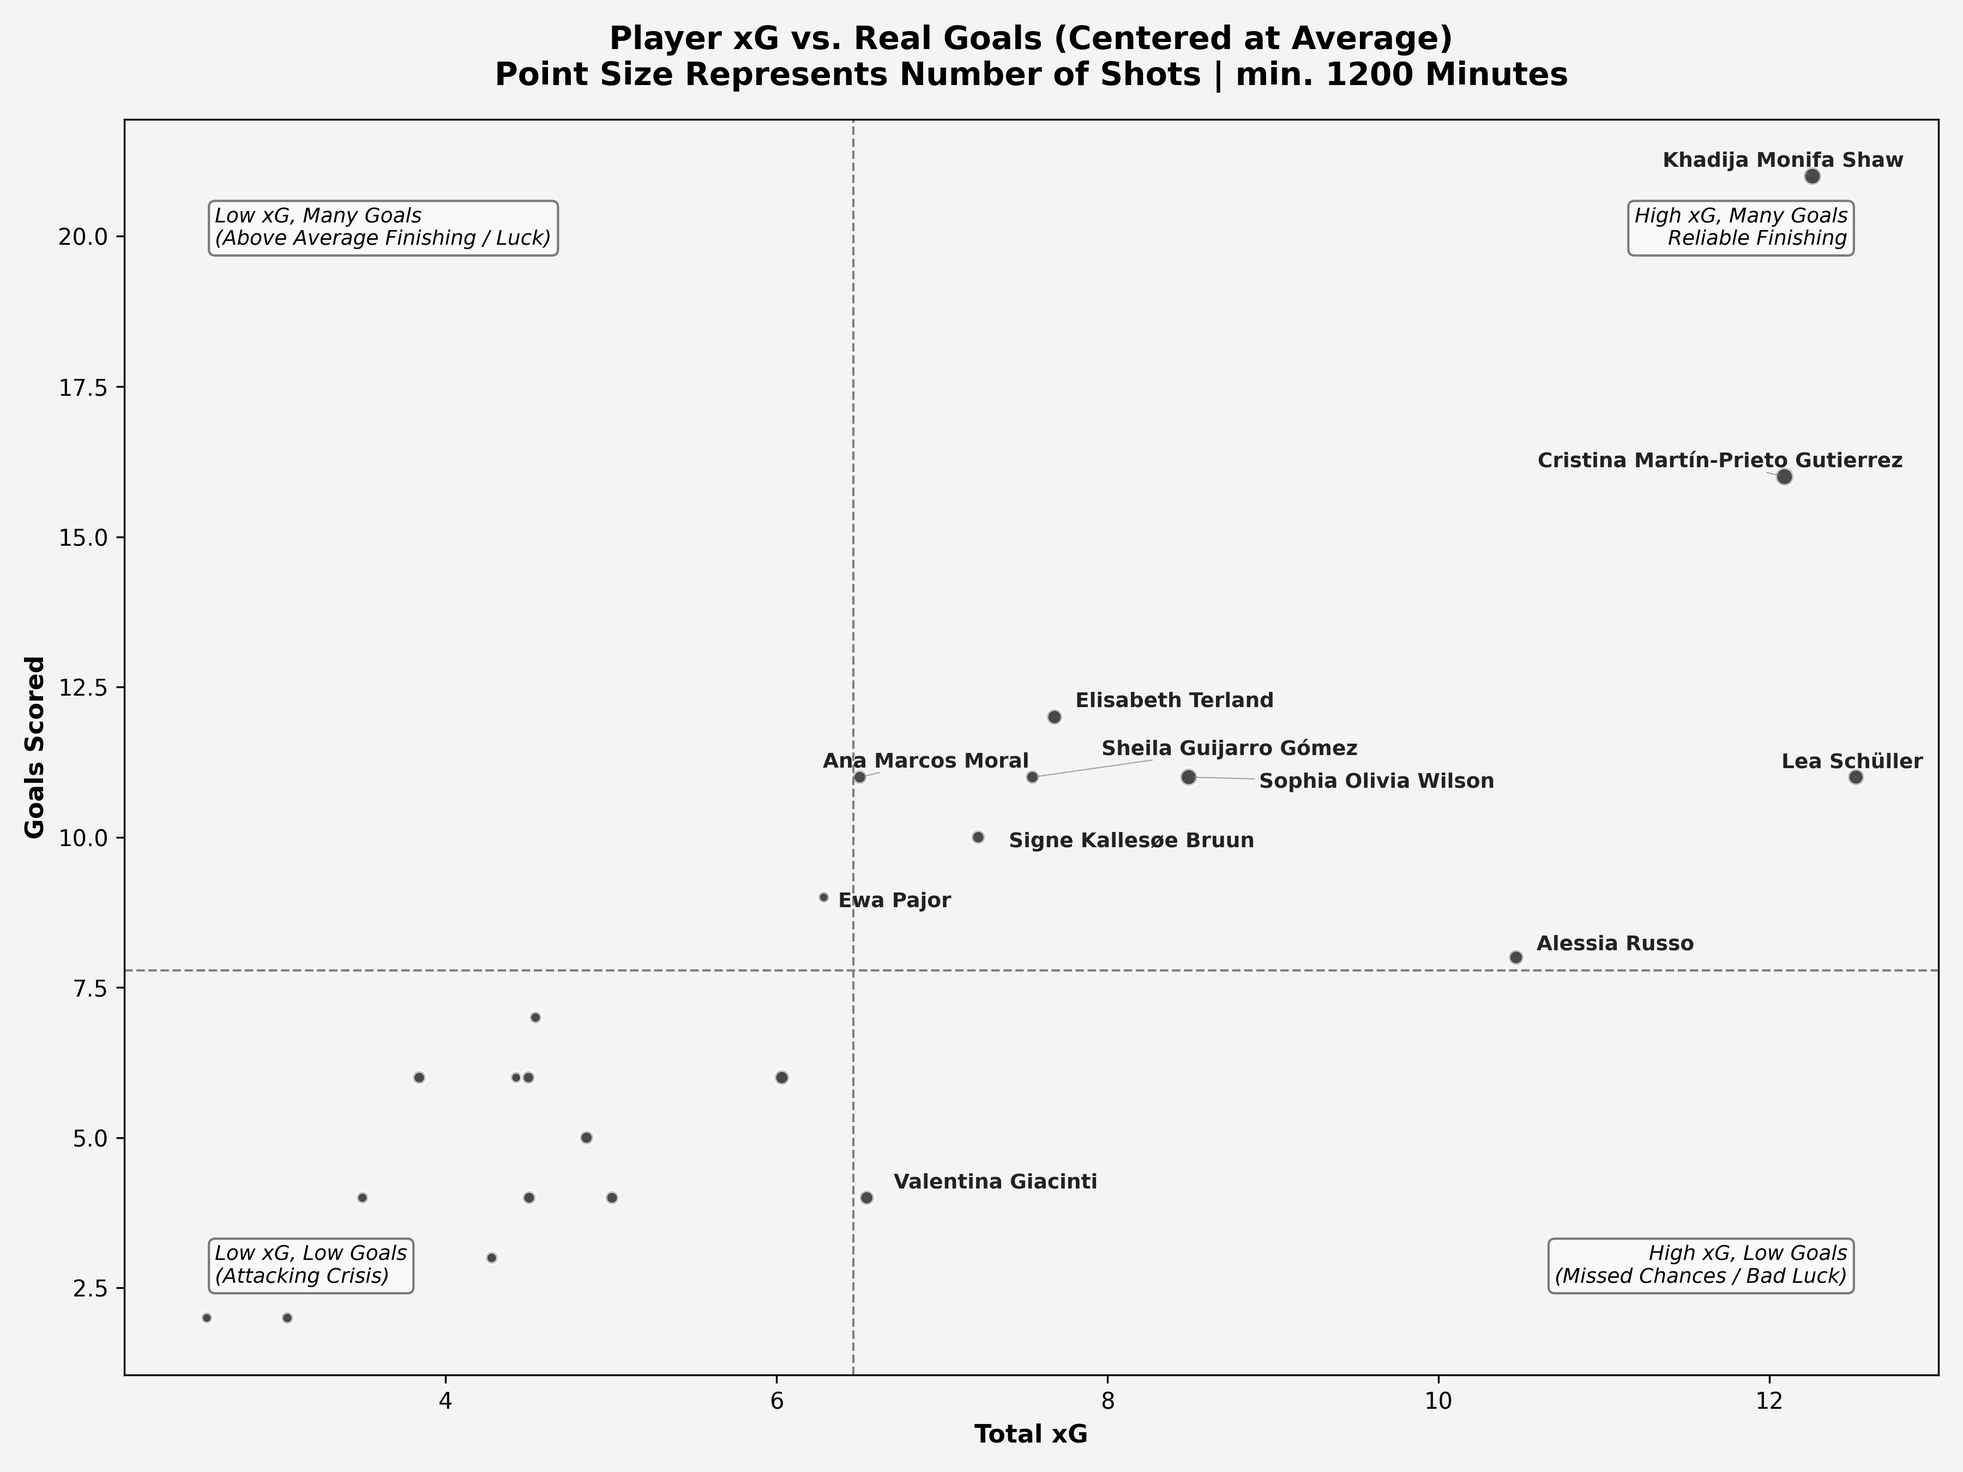
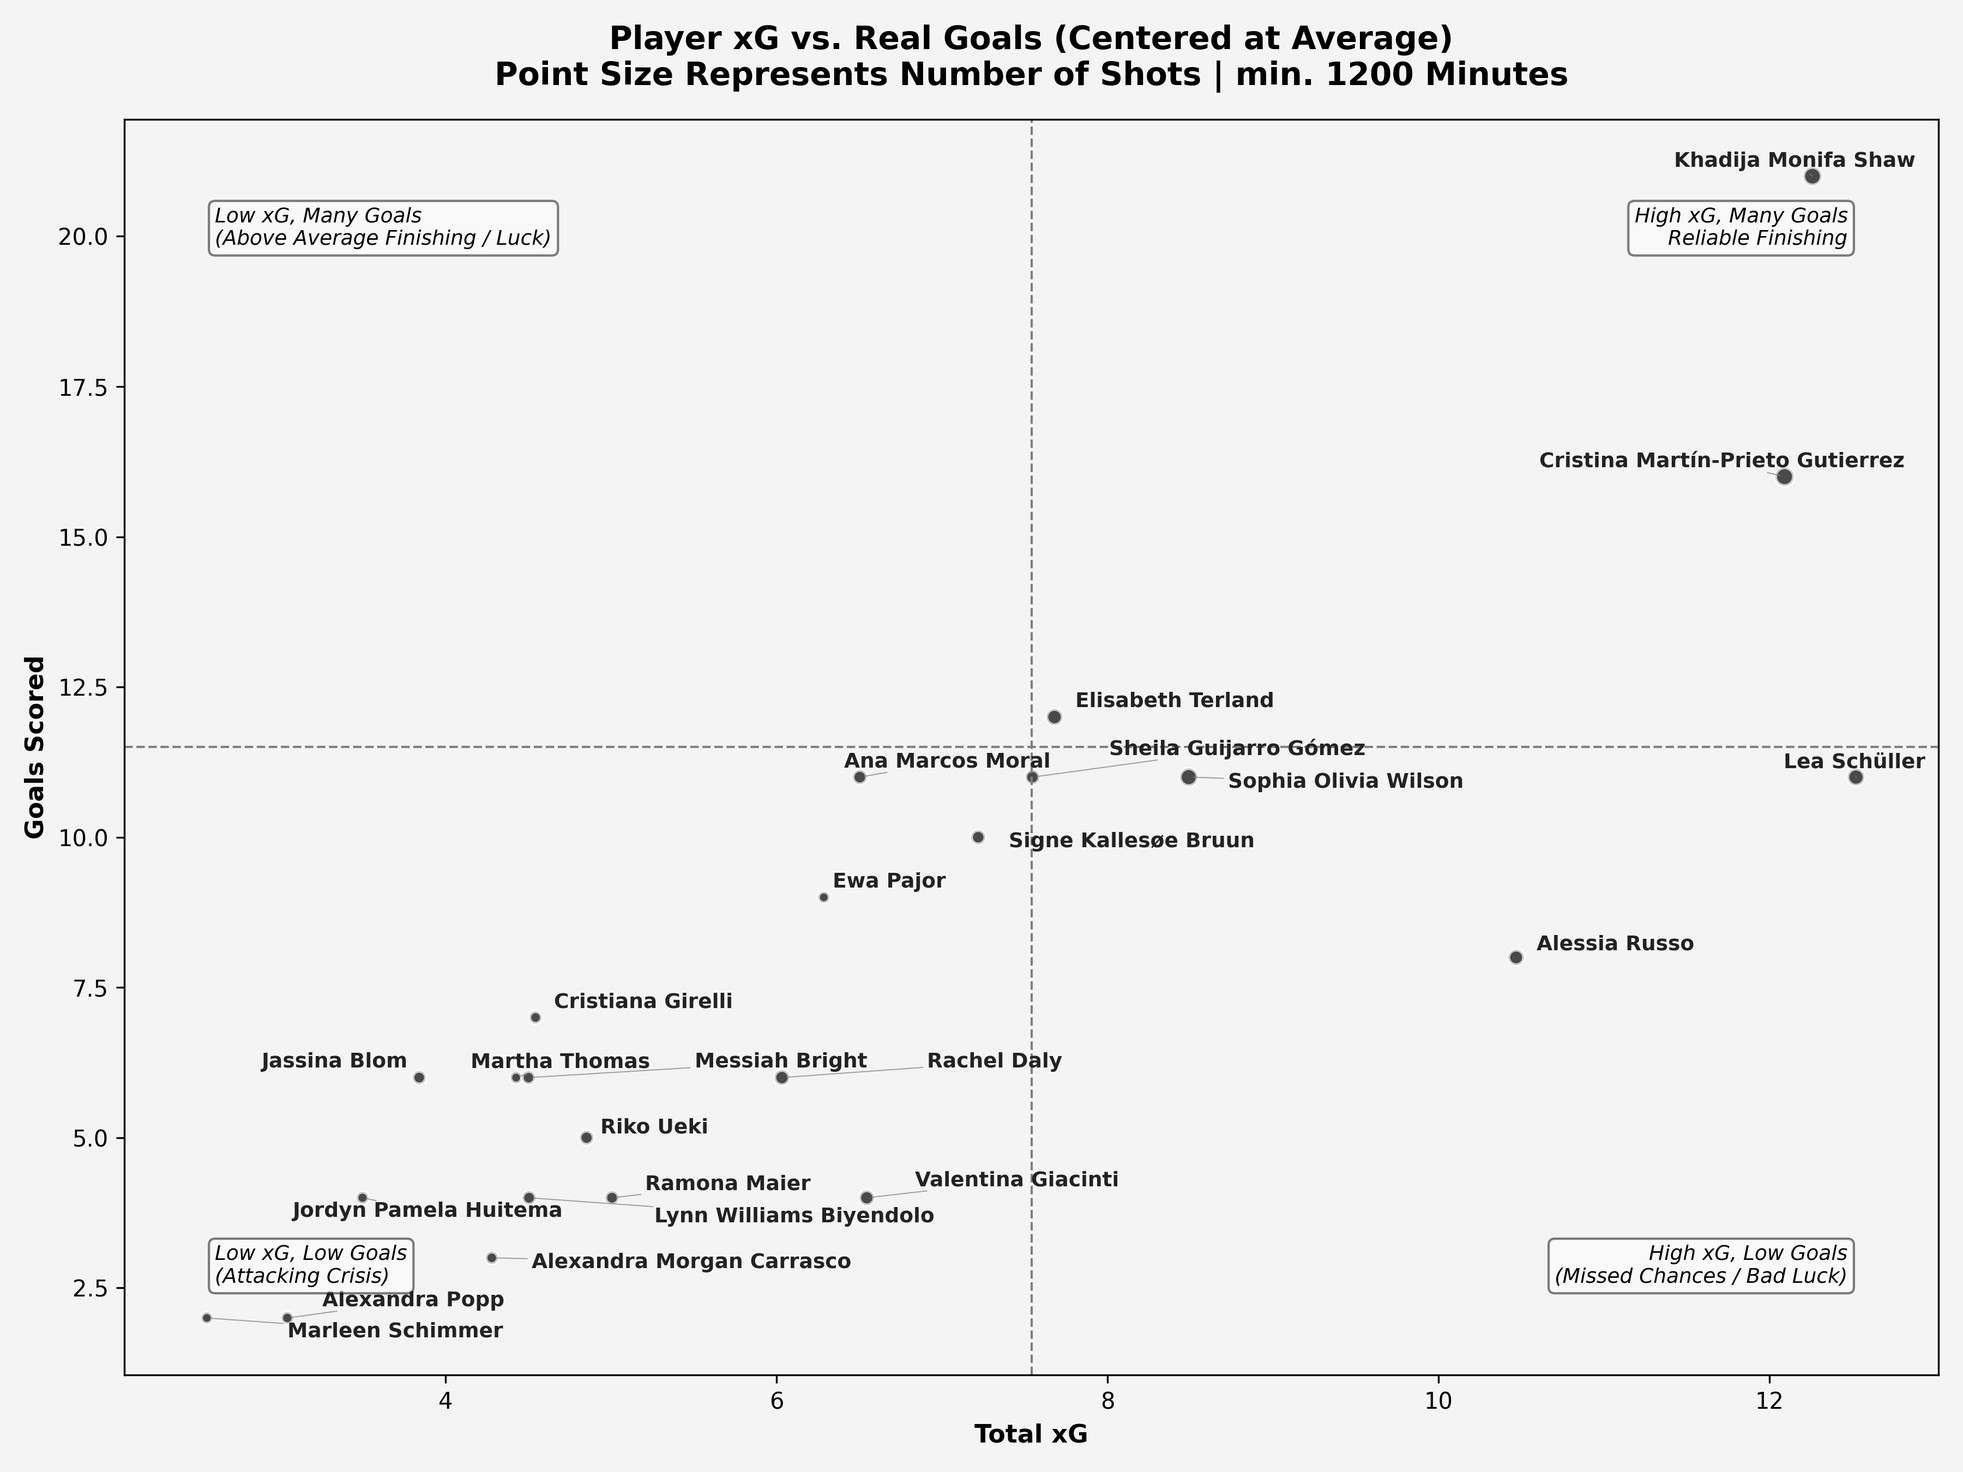
fixes

diff --git a/src/goals_vs_xG_per90.py b/src/goals_vs_xG_per90.py
@@ -8,89 +8,105 @@ try:
 except ImportError:
     HAS_ADJUST_TEXT = False
 
-# Load aggregated scouting data from data/
+# 1. Load data
 df = pd.read_csv('data/forward_scouting_summary.csv')
 
-# Calculate per 90 metrics
+# 2. Compute per 90 metrics
 df['xg_per_90'] = (df['total_xg'] / df['exact_minutes']) * 90
 df['goals_per_90'] = (df['total_goals'] / df['exact_minutes']) * 90
 
-# Filter by minutes and shot rate
+# 3. Filter sample
 MIN_MINUTES = 1200
 filtered_df = df[
     (df['exact_minutes'] >= MIN_MINUTES) & 
-    (df['xg_per_90'] >= 0.1)
+    (df['xg_per_90'] >= 0.08)
 ].copy()
 
 mean_xg = filtered_df['xg_per_90'].mean()
 mean_goals = filtered_df['goals_per_90'].mean()
 
-fig, ax = plt.subplots(figsize=(13, 10), facecolor='#f4f4f4')
+# 4. Canvas setup
+fig, ax = plt.subplots(figsize=(13, 9.5), facecolor='#f4f4f4')
 ax.set_facecolor('#f4f4f4')
 
-bubble_sizes = filtered_df['total_shots'] * 3.5
+# 5. Square Root Scaling functions
+forward_transform = lambda x: np.sqrt(np.maximum(x, 0))
+inverse_transform = lambda x: x**2
+
+ax.set_xscale('function', functions=(forward_transform, inverse_transform))
+ax.set_yscale('function', functions=(forward_transform, inverse_transform))
+
+ax.set_xticks([0.1, 0.2, 0.3, 0.4, 0.5, 0.6, 0.7, 0.8, 0.9])
+ax.set_yticks([0.0, 0.1, 0.2, 0.3, 0.4, 0.6, 0.8, 1.0, 1.2, 1.4, 1.6])
+
+# 6. Scatter points
+bubble_sizes = filtered_df['total_shots'] * 3.6
 scatter = ax.scatter(
     filtered_df['xg_per_90'],
     filtered_df['goals_per_90'],
     s=bubble_sizes,
     color='black',
-    alpha=0.6,
+    alpha=0.65,
     edgecolors='white',
-    linewidth=1.5
+    linewidth=1.4
 )
 
-ax.axvline(mean_xg, color='gray', linewidth=1.2, linestyle='--', label='Average xG')
-ax.axhline(mean_goals, color='gray', linewidth=1.2, linestyle='--', label='Average Goals')
+# Reference lines in English
+ax.axvline(mean_xg, color='#7f8c8d', linewidth=1.1, linestyle='--', label=f'Average xG/90 ({mean_xg:.2f})')
+ax.axhline(mean_goals, color='#7f8c8d', linewidth=1.1, linestyle='--', label=f'Average Goals/90 ({mean_goals:.2f})')
 
-# Selective label placement
+# 7. Labels
 texts = []
 for _, row in filtered_df.iterrows():
     is_notable = (
-        row['xg_per_90'] > mean_xg * 1.15 or 
-        row['goals_per_90'] > mean_goals * 1.15 or 
-        row['total_goals'] >= 8
+        row['xg_per_90'] > mean_xg * 1.05 or 
+        row['goals_per_90'] > mean_goals * 1.05 or 
+        row['total_goals'] >= 7
     )
     if is_notable:
         txt = ax.text(
             row['xg_per_90'],
             row['goals_per_90'],
             row['player'],
-            fontsize=9,
+            fontsize=8.5,
             fontweight='bold',
-            color='#111111'
+            color='#1a1a1a'
         )
         texts.append(txt)
 
 if HAS_ADJUST_TEXT and texts:
     adjust_text(
         texts,
-        arrowprops=dict(arrowstyle='-', color='gray', lw=0.5, alpha=0.7),
+        arrowprops=dict(arrowstyle='->', color='#95a5a6', lw=0.6, alpha=0.8),
         ax=ax,
-        force_text=(0.5, 0.8)
+        expand_text=(1.3, 1.5),
+        force_text=(0.7, 1.0)
     )
 
-# Padding borders so labels don't collide with corner boxes
-ax.set_xlim(0.05, filtered_df['xg_per_90'].max() + 0.08)
-ax.set_ylim(-0.02, filtered_df['goals_per_90'].max() + 0.12)
+# Generous limits so Shaw stays well clear of the top-right box
+ax.set_xlim(0.06, 0.95)
+ax.set_ylim(-0.01, 1.65)
 
-bbox_props = dict(boxstyle='round,pad=0.3', facecolor='white', edgecolor='#cccccc', alpha=0.75)
+# Quadrant labels
+bbox_props = dict(boxstyle='round,pad=0.35', facecolor='white', edgecolor='#dcdde1', alpha=0.85)
 
-ax.text(0.98, 0.98, 'High xG per 90, Many Goals per 90\n(Reliable Finishing / Stars)', 
+ax.text(0.98, 0.98, 'High xG/90, Many Goals/90\n(Elite Volume & Finishing)', 
         transform=ax.transAxes, fontsize=8.5, fontstyle='italic', ha='right', va='top', bbox=bbox_props)
-ax.text(0.02, 0.98, 'Low xG per 90, Many Goals per 90\n(Clinical / Overperforming)', 
+ax.text(0.02, 0.98, 'Low xG/90, Many Goals/90\n(Clinical / Overperforming)', 
         transform=ax.transAxes, fontsize=8.5, fontstyle='italic', ha='left', va='top', bbox=bbox_props)
-ax.text(0.02, 0.02, 'Low xG per 90, Low Goals per 90\n(Attacking Crisis / Low Output)', 
+ax.text(0.02, 0.02, 'Low xG/90, Low Goals/90\n(Low Threat & Output)', 
         transform=ax.transAxes, fontsize=8.5, fontstyle='italic', ha='left', va='bottom', bbox=bbox_props)
-ax.text(0.98, 0.02, 'High xG per 90, Low Goals per 90\n(Underperforming / Bad Luck)', 
+ax.text(0.98, 0.02, 'High xG/90, Low Goals/90\n(Underperforming / Unlucky)', 
         transform=ax.transAxes, fontsize=8.5, fontstyle='italic', ha='right', va='bottom', bbox=bbox_props)
 
+# Titles, axes and legend
 ax.set_title(
-    f'Player xG vs. Real Goals per 90 (Normalized)\nFiltered by min. {MIN_MINUTES} Minutes & Active Offense | Center Forwards Only',
-    fontsize=14, fontweight='bold', pad=15
+    f'Player xG vs. Real Goals per 90 (Power Scaled)\nFiltered by min. {MIN_MINUTES} Minutes & Active Offense | Center Forwards Only',
+    fontsize=13, fontweight='bold', pad=14
 )
-ax.set_xlabel('xG per 90 minutes', fontsize=11, fontweight='bold')
-ax.set_ylabel('Goals per 90 minutes', fontsize=11, fontweight='bold')
-ax.legend(loc='upper left', frameon=True, facecolor='white', edgecolor='none')
+ax.set_xlabel('xG per 90 minutes (Square Root Scale)', fontsize=11, fontweight='bold')
+ax.set_ylabel('Goals per 90 minutes (Square Root Scale)', fontsize=11, fontweight='bold')
+ax.legend(loc='lower left', bbox_to_anchor=(0.18, 0.02), frameon=True, facecolor='white', edgecolor='none')
 
 plt.tight_layout()
 plt.savefig('results/xg_vs_goals_per90.png', dpi=300, facecolor=fig.get_facecolor(), edgecolor='none')

diff --git a/src/goals_vs_xG.py b/src/goals_vs_xG.py
@@ -18,8 +18,8 @@ filtered_df = df[
     (df['total_shots'] >= 30)
 ].copy()
 
-mean_xg = filtered_df['total_xg'].mean()
-mean_goals = filtered_df['total_goals'].mean()
+mid_xg = (filtered_df['total_xg'].min() + filtered_df['total_xg'].max()) / 2
+mid_goals = (filtered_df['total_goals'].min() + filtered_df['total_goals'].max()) / 2
 
 fig, ax = plt.subplots(figsize=(12, 9), facecolor='#f4f4f4')
 ax.set_facecolor('#f4f4f4')
@@ -34,28 +34,22 @@ scatter = ax.scatter(
     linewidth=1.5
 )
 
-ax.axvline(mean_xg, color='gray', linewidth=1, linestyle='--')
-ax.axhline(mean_goals, color='gray', linewidth=1, linestyle='--')
+ax.axvline(mid_xg, color='gray', linewidth=1, linestyle='--')
+ax.axhline(mid_goals, color='gray', linewidth=1, linestyle='--')
 
 # Selective label placement
 texts = []
 for _, row in filtered_df.iterrows():
-    is_notable = (
-        row['total_xg'] > mean_xg or 
-        row['total_goals'] > mean_goals or 
-        row['total_goals'] >= 8
-    )
-    if is_notable:
-        texts.append(
-            ax.text(
-                row['total_xg'],
-                row['total_goals'],
-                row['player'],
-                fontsize=9,
-                fontweight='bold',
-                color='#222222'
-            )
+    texts.append(
+        ax.text(
+            row['total_xg'],
+            row['total_goals'],
+            row['player'],
+            fontsize=9,
+            fontweight='bold',
+            color='#222222'
         )
+    )    
 
 if HAS_ADJUST_TEXT and texts:
     adjust_text(

diff --git a/README.md b/README.md
@@ -1,57 +1,61 @@
 # Women's Football Scouting: Advanced Finishing & xG Analysis
 
-An end-to-end data scouting project analyzing attacking performance and finishing efficiency for **Center Forwards** across women's football competitions using the StatsBomb event data format.
+An end-to-end data scouting repository analyzing attacking output, chance quality, and finishing efficiency for **Center Forwards** across women's football competitions using the StatsBomb open event data framework.
 
 ---
 
 ## 📌 Project Overview & Objectives
 
-Traditional goal totals often misrepresent pure attacking ability due to team quality, variance, and small-sample luck. This project separates finishing luck from chance creation by analyzing:
-- **Expected Goals (xG) vs. Actual Goals**: Quantifying raw volume against conversion quality.
-- **Finishing Efficiency ($G - xG$)**: Identifying clinical finishers versus underperforming strikers.
-- **Per 90 Normalization via Event Mining**: Accurately deriving exact on-pitch minutes from match event actions and substitutions rather than defaulting to inaccurate static 90-minute assumptions.
+Relying exclusively on raw goal tallies introduces selection bias driven by team dominance, finishing streaks, or low shot volumes. This scouting pipeline isolates repeatable attacking value by evaluating:
+- **Expected Goals (xG) vs. Actual Goals**: Benchmarking high-volume generators against clinical finishers.
+- **Finishing Efficiency ($G - xG$)**: Pinpointing clinical overperformers versus strikers experiencing temporary negative variance.
+- **Per 90 Normalization via Event Parsing**: Calculating exact pitch time from match substitution events instead of imprecise static 90-minute assumptions.
 
 ---
 
 ## 🛠 Data Pipeline & Methodology
 
-1. **Exact Playing Time Extraction (`src/player_minutes.py`)**:
-   - Parses match actions and substitution events (`type == 'Substitution'`) to track true pitch time for both starters and bench players.
-   - Saves a lightweight cache (`data/player_total_minutes.csv`) to decouple heavy minute calculation from visualization workflows.
+1. **Exact Playing Time Calculation (`src/player_minutes.py`)**:
+   - Parses player participation and substitution actions (`type == 'Substitution'`) to establish exact on-pitch minutes for starters and substitutes.
+   - Generates `data/player_total_minutes.csv` to serve as a fast local lookup table.
 2. **Scouting Summary Aggregation (`src/build_forward_summary.py`)**:
-   - Isolates center forward actions and aggregates total shots, goals, and cumulative xG.
-   - Exports an optimized summary dataset (`data/forward_scouting_summary.csv`), allowing downstream visualization scripts to execute instantly.
-3. **Scouting Thresholds (Sample Reliability)**:
+   - Filters event-level shot attempts for center forwards and aggregates goals, shots, and cumulative xG.
+   - Produces `data/forward_scouting_summary.csv`, allowing visualization scripts to run instantly without parsing massive event dumps.
+3. **Scouting Sample Thresholds**:
    - **Position**: `Center Forward`
-   - **Playing Time**: Minimum 1,200 minutes played to capture regular starters (including elite performers like Khadija Shaw).
-   - **Shot Volume**: Minimum 30 total shots or $xG \ge 0.1$ per 90.
-4. **Presentation-Grade Visual Standards**:
-   - Implements `adjustText` with automated pointer lines to eliminate overlapping labels.
-   - Uses padded plot boundaries (`set_xlim`, `set_ylim`) so corner quadrant annotations and bar chart value labels remain fully legible without clipping.
+   - **Sample Size**: Minimum 1,200 minutes played to capture regular starters (including high-impact forwards like Khadija Shaw).
+   - **Attacking Activity**: Minimum 30 total shots or $xG \ge 0.08$ per 90.
+4. **Data Visualization Design**:
+   - **Power / Square Root Scaling**: Applied to normalized per-90 metrics to declutter dense mid-range clusters while accommodating elite outliers.
+   - **Automated Label Placement**: Uses `adjustText` with directional pointers to prevent label overlapping.
+   - **Quadrant Benchmarking**: Segmented via sample averages across chance creation and conversion.
 
 ---
 
-## 📊 Key Visualizations & Findings
+## 📊 Key Visualizations & Scouting Insights
 
-### 1. Striker Quadrant Analysis ($xG \text{ per } 90 \text{ vs. } \text{Goals per } 90$)
+### 1. Normalized Quadrant Analysis ($xG \text{ per } 90 \text{ vs. } \text{Goals per } 90$)
 ![xG vs Goals per 90](results/xg_vs_goals_per90.png)
 
-- **The Outlier / Elite Volume**:
-  - **Khadija Monifa Shaw** stands out as the sample's most dominant attacker, creating elite shot quality per 90 while consistently outscoring expected output.
-  - **Lea Schüller** and **Sophia Olivia Wilson** rank among the highest volume creators, consistently generating quality opportunities against deep defensive blocks.
-- **Quadrant Archetypes**:
-  - Separates high-volume creators from clinical, lower-volume finishers and forwards navigating goal droughts.
+- **Generational Outlier**: **Khadija Monifa Shaw** dominates both dimensions (~0.78 xG/90 and >1.35 Goals/90), representing the highest threat density in the dataset.
+- **Elite Chance Generation**: **Sophia Olivia Wilson** and **Lea Schüller** consistently access high-quality scoring opportunities, anchoring top-tier attacking units.
+- **Clinical Finishers**: **Ana Marcos Moral**, **Elisabeth Terland**, and **Ewa Pajor** demonstrate above-average conversion rates relative to their expected metrics.
 
 ---
 
-### 2. Finishing Efficiency (Diverging Bar Chart: $G - xG$)
+### 2. Finishing Delta ($G - xG$)
 ![Finishing Efficiency](results/best_xg_performers.png)
 
-- **Clinical Overperformers ($G > xG$)**:
-  - **Khadija Monifa Shaw** leads the dataset (+8.74 goals above expectation), followed by **Ana Marcos Moral** (+4.50) and **Elisabeth Terland** (+4.32), showcasing elite conversion rates from low-to-medium difficulty chances.
-- **Market Opportunities / Underperformers ($G < xG$)**:
-  - **Alessia Russo** and **Valentina Giacinti** register negative finishing deltas despite generating consistent underlying shot volume.
-  - *Scouting Insight*: Often driven by variance or temporary finishing slumps. Strikers with sound underlying generation metrics represent undervalued transfer targets primed for positive regression to the mean.
+- **Top Overperformers**: **Khadija Monifa Shaw** (+8.74), **Ana Marcos Moral** (+4.50), and **Elisabeth Terland** (+4.32) lead the sample in converting difficult chances.
+- **Recruitment Targets / Value Plays**: Strikers with negative deltas like **Alessia Russo** (-2.47) and **Valentina Giacinti** (-2.54) maintain strong underlying chance involvement. In professional scouting, high underlying xG with depressed finishing delta often flags buy-low transfer opportunities due for positive mean regression.
+
+---
+
+### 3. Cumulative Season Output (Total xG vs. Goals)
+![Total xG vs Goals](results/xg_vs_goals.png)
+
+- Provides absolute volume context to verify that per-90 efficiency is sustained over substantial match samples.
+- Highlights sustained contributors such as **Cristina Martín-Prieto Gutierrez** and **Elisabeth Terland** reaching double-digit goal returns.
 
 ---
 
@@ -59,23 +63,23 @@ Traditional goal totals often misrepresent pure attacking ability due to team qu
 
 ```text
 ├── data/
-│   ├── clean_match_events_lean.csv    # Filtered match events (local raw data)
-│   ├── forward_scouting_summary.csv   # Aggregated forward statistics
-│   ├── match_events.csv               # Raw StatsBomb event dump
+│   ├── clean_match_events_lean.csv    # Filtered match events
+│   ├── forward_scouting_summary.csv   # Aggregated center forward metrics
+│   ├── match_events.csv               # Raw event dump
 │   ├── matches_data.csv               # Match metadata
 │   └── player_total_minutes.csv       # Pre-computed playing time cache
 ├── results/
-│   ├── best_xg_performers.png         # Diverging bar chart (Finishing efficiency G - xG)
-│   ├── xg_vs_goals_per90.png          # Normalized per-90 quadrant scatter plot
+│   ├── best_xg_performers.png         # Finishing efficiency bar chart (G - xG)
+│   ├── xg_vs_goals_per90.png          # Power-scaled per-90 quadrant scatter plot
 │   └── xg_vs_goals.png                # Total volume quadrant scatter plot
 ├── src/
 │   ├── best_xG_performers.py          # Script generating G - xG bar chart
-│   ├── build_forward_summary.py       # Script creating aggregated forward dataset
+│   ├── build_forward_summary.py       # Aggregation pipeline script
 │   ├── calculate_minutes.py           # Playing time extraction runner
-│   ├── datadownload.py                # Dataset download utility
+│   ├── datadownload.py                # Raw data ingestion utility
 │   ├── dataprocessingagent.py         # Data processing helper
 │   ├── goals_vs_xG_per90.py           # Script generating per-90 scatter plot
 │   ├── goals_vs_xG.py                 # Script generating total volume scatter plot
-│   └── player_minutes.py              # Playing time computation module
-├── .gitignore                         # Git ignore configuration
-└── README.md                          # Project documentation
+│   └── player_minutes.py              # Minute calculation module
+├── .gitignore
+└── README.md
